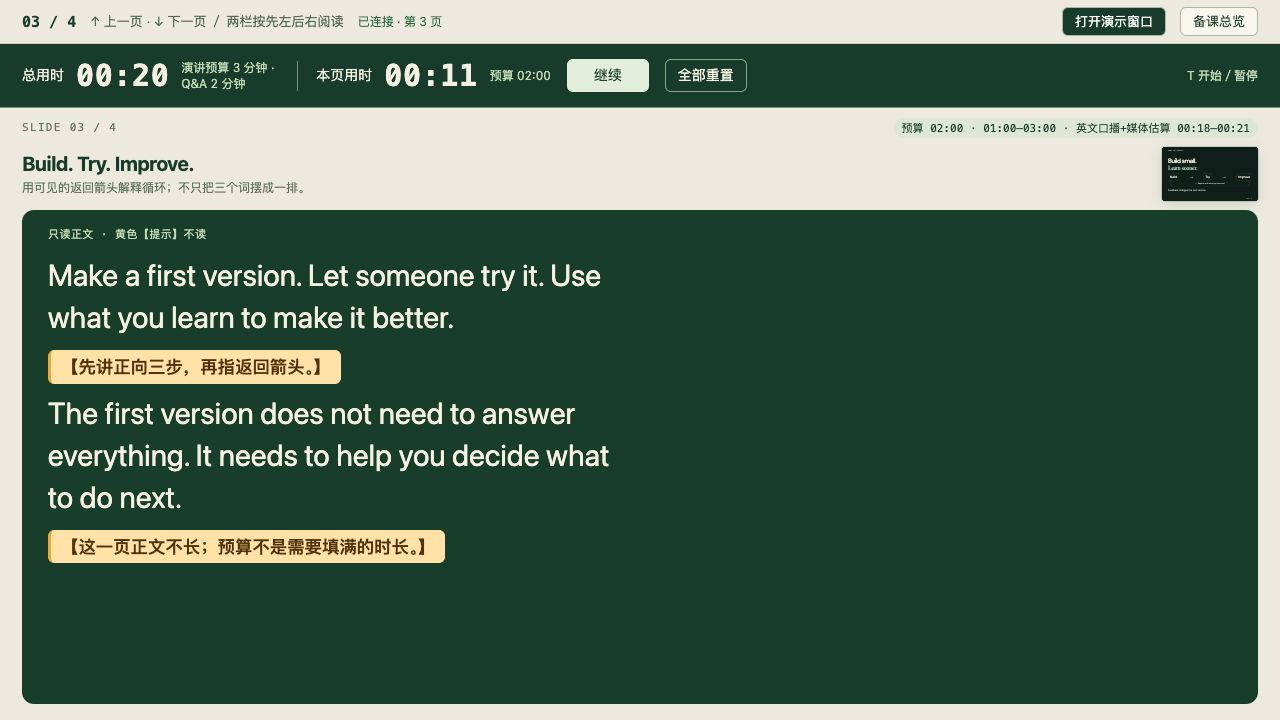
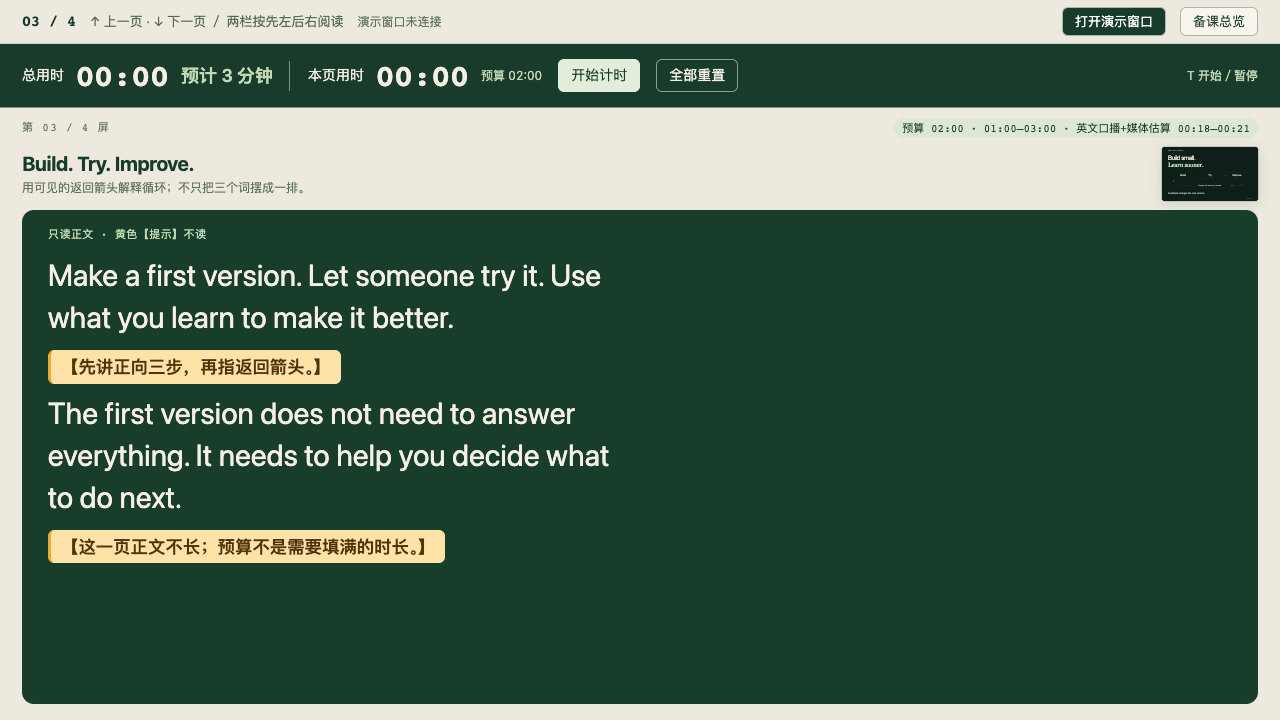
fix: keep presenter controls Chinese and budgets readable

diff --git a/.agents/skills/html-presentation/assets/template/app.js b/.agents/skills/html-presentation/assets/template/app.js
@@ -20,18 +20,18 @@ function playFilm() {
   film.play().catch(() => {
     playbackBlocked = true;
     reportState();
-    filmHint.textContent = 'Press V to play with sound';
+    filmHint.textContent = '按 V 播放（有声）';
     filmHint.hidden = false;
   });
 }
 film?.addEventListener('play', () => { filmHint.hidden = true; playbackBlocked = false; reportState(); });
 film?.addEventListener('pause', () => {
-  filmHint.textContent = film.ended ? 'Press ↓ to continue · R to replay' : 'Press V to resume';
+  filmHint.textContent = film.ended ? '按 ↓ 继续 · R 重播' : '按 V 继续播放';
   filmHint.hidden = false;
   reportState();
 });
 film?.addEventListener('ended', () => {
-  filmHint.textContent = 'Press ↓ to continue · R to replay';
+  filmHint.textContent = '按 ↓ 继续 · R 重播';
   filmHint.hidden = false;
   reportState();
 });

diff --git a/.agents/skills/html-presentation/assets/template/notes.js b/.agents/skills/html-presentation/assets/template/notes.js
@@ -109,7 +109,15 @@
 
   const status = toolbar.querySelector('.sync-status');
   const sessionKey = `presentation-session:${deckKey}`;
-  const session = sessionStorage.getItem(sessionKey) || crypto.randomUUID();
+  // getRandomValues also works on private HTTP previews; retain the UUID channel format.
+  function createSession() {
+    const bytes = crypto.getRandomValues(new Uint8Array(16));
+    bytes[6] = (bytes[6] & 0x0f) | 0x40;
+    bytes[8] = (bytes[8] & 0x3f) | 0x80;
+    return Array.from(bytes, value => value.toString(16).padStart(2, '0')).join('')
+      .replace(/^(.{8})(.{4})(.{4})(.{4})(.{12})$/, '$1-$2-$3-$4-$5');
+  }
+  const session = sessionStorage.getItem(sessionKey) || createSession();
   sessionStorage.setItem(sessionKey, session);
   const channel = new BroadcastChannel(`presentation-${deckKey}-${session}`);
   let lastSeen = 0;

diff --git a/.agents/skills/html-presentation/assets/template/speaker.css b/.agents/skills/html-presentation/assets/template/speaker.css
@@ -43,7 +43,7 @@ body.notes-deck .script-scroll .spoken p.delivery-cue{font-size:15px}
 .timer-page{border-left:1px solid #78937d;padding-left:18px}
 .timer-elapsed,.page-elapsed{font:600 30px/1 ui-monospace,monospace;font-variant-numeric:tabular-nums;letter-spacing:.02em}
 .timer-budget,.page-budget{color:#c3d9b5;font-size:12px;font-variant-numeric:tabular-nums}
-.timer-budget{max-width:100px}
+.timer-budget{font-size:18px;font-weight:600;white-space:nowrap}
 .timer-page[data-timing="over"] .page-elapsed,.timer-page[data-timing="over"] .page-budget{color:#ffb4a0}
 .speaker-timer button{font:inherit;padding:6px 12px;border:1px solid #8aa486;border-radius:6px;background:transparent;color:inherit;cursor:pointer;white-space:nowrap}
 .speaker-timer .timer-toggle{background:#e3eddc;color:#193b2b;border-color:#e3eddc;min-width:82px}

diff --git a/.agents/skills/html-presentation/scripts/build.py b/.agents/skills/html-presentation/scripts/build.py
@@ -76,10 +76,10 @@ def build(deck, output, asset_dir=None):
         links.append(f'<li><a href="#{ident}"><span>{number:02d}</span>{escape(title)}</a></li>')
         articles.append(
             f'<article class="slide-note" id="{ident}" data-budget-seconds="{budget if budget is not None else ""}">'
-            f'<div class="note-top"><p class="eyebrow">SLIDE {number:02d} / {total}</p><span class="time">{time_label}</span></div>'
+            f'<div class="note-top"><p class="eyebrow">第 {number:02d} / {total} 屏</p><span class="time">{time_label}</span></div>'
             f'<div class="note-heading"><div><h2>{escape(title)}</h2><p class="purpose">{escape(slide.get("purpose", ""))}</p></div>'
             f'<figure class="slide-thumbnail"><div class="thumbnail-window"><iframe srcdoc="{escape(preview)}" title="第 {number} 屏缩略图" loading="lazy" tabindex="-1" aria-hidden="true"></iframe></div><figcaption>第 {number} 屏</figcaption></figure></div>'
-            f'<div class="spoken" lang="{escape(deck.get("language", "en"))}"><span class="label">只读正文 · 黄色【提示】不读</span>{spoken}</div></article>')
+            f'<div class="spoken" lang="{escape(deck.get("language", "en"))}"><span class="label" lang="zh-CN">只读正文 · 黄色【提示】不读</span>{spoken}</div></article>')
     common = f'data-deck-id="{escape(deck["id"])}" data-speaker="{escape(deck["speaker"])}"'
     title = escape(deck['title'])
     index = f'<!doctype html><html lang="{escape(deck.get("language", "en"))}"><head><meta charset="utf-8"><meta name="viewport" content="width=device-width,initial-scale=1"><title>{title}</title><link rel="stylesheet" href="style.css"><link rel="stylesheet" href="theme.css"><script src="app.js" defer></script></head><body {common}><main id="presentation">' + '\n'.join(scenes) + '</main><div class="reading-progress"><span id="progressFill"></span></div></body></html>'
@@ -88,7 +88,7 @@ def build(deck, output, asset_dir=None):
              '回到讲稿，↑ ↓ 或 Page Up / Page Down 翻页，Home / End 到首尾。T 同时开始或暂停两个计时器；换页只重置本页用时。'
              + media_guide + '深底大字区域是口播，黄色提示不读。两栏先读左栏再读右栏。'
              '时间预算不是必须讲满的时间；估算按英文 100–120 词/分钟加媒体时长，不包含临场展开和停顿，以彩排实测为准。')
-    notes = (f'<!doctype html><html lang="zh-CN"><head><meta charset="utf-8"><meta name="viewport" content="width=device-width,initial-scale=1"><title>{title} · 讲稿</title><link rel="stylesheet" href="speaker.css"><link rel="stylesheet" href="theme.css"><script src="notes.js" defer></script></head><body {common} data-budget-label="{escape(deck.get("budget_label", "预算与估算见每页；以彩排为准"))}"><main><header id="top"><p class="eyebrow">SPEAKER GUIDE</p><h1>{title}</h1><div class="notice">{guide}</div><a href="index.html" target="_blank" rel="noopener">独立打开演示（不联动）</a></header><section class="quick"><h2>逐屏速查</h2><ol>'
+    notes = (f'<!doctype html><html lang="zh-CN"><head><meta charset="utf-8"><meta name="viewport" content="width=device-width,initial-scale=1"><title>{title} · 讲稿</title><link rel="stylesheet" href="speaker.css"><link rel="stylesheet" href="theme.css"><script src="notes.js" defer></script></head><body {common} data-budget-label="{escape(deck.get("budget_label", "未设总预算"))}"><main><header id="top"><p class="eyebrow">演讲者讲稿</p><h1>{title}</h1><div class="notice">{guide}</div><a href="index.html" target="_blank" rel="noopener">独立打开演示（不联动）</a></header><section class="quick"><h2>逐屏速查</h2><ol>'
              + ''.join(links) + '</ol></section>' + '\n'.join(articles) + '</main></body></html>')
     output.mkdir(parents=True, exist_ok=True)
     for name in ['style.css', 'speaker.css', 'app.js', 'notes.js']:

diff --git a/.agents/skills/html-presentation/scripts/test_build.py b/.agents/skills/html-presentation/scripts/test_build.py
@@ -25,7 +25,7 @@ class PresentationBuildTests(unittest.TestCase):
         self.deck['slides'] = [self.deck['slides'][2], self.deck['slides'][0]]
         build(self.deck, self.output)
         self.assertEqual(validate_site(self.output), 2)
-        self.assertIn('SLIDE 01 / 2', (self.output / 'notes.html').read_text())
+        self.assertIn('第 01 / 2 屏', (self.output / 'notes.html').read_text())
 
     def test_short_budget_is_not_the_speech_estimate(self):
         self.deck['slides'][1]['budget_seconds'] = 30

diff --git a/.agents/skills/html-presentation/references/verification.md b/.agents/skills/html-presentation/references/verification.md
@@ -19,7 +19,7 @@ node <skill-dir>/scripts/test_browser.cjs http://127.0.0.1:8765 /tmp/presentatio
 
 若使用已安装的 Chrome，可在命令前设置 `PLAYWRIGHT_CHANNEL=chrome`；Playwright 模块须在 Node 的解析路径中。
 
-它针对模板示例验证双窗、彩排记录、导出、暂停/回访/刷新/重置、窄屏，并保存每页截图。动态 loop 额外验证轨迹确实移动、节点错峰强调、离页暂停、缩略图静止、深浅主题和 reduced-motion。执行前先构建 `assets/template/deck.json`。自定义 deck 的内容、视频、可访问性仍按实际材料检查；不要为通过示例测试改动用户内容。
+它针对模板示例验证简短中文计时文案的字号和不重叠、双窗、彩排记录、导出、暂停/回访/刷新/重置、窄屏，并保存每页截图。动态 loop 额外验证轨迹确实移动、节点错峰强调、离页暂停、缩略图静止、深浅主题和 reduced-motion。执行前先构建 `assets/template/deck.json`。私有 HTTP/Tailscale 交付要用实际非 localhost 地址再跑一次，以覆盖浏览器安全上下文差异；同一台机器内的两个窗口才会联动。自定义 deck 的内容、视频、可访问性仍按实际材料检查；不要为通过示例测试改动用户内容。
 
 配色改动另测深浅页、讲稿、黄色 cue 和缩略图。生成器先验证文字角色对比度；浏览器检查实际应用和布局。可用 `scripts/test_palettes.cjs ROOT_URL EVIDENCE_DIR`：先将同一 bundled deck 的 `palette` 分别设为 forest、blue、plum，生成到同一 HTTP 根目录下的同名子目录。该测试检查三套配色、相同 loop 尺寸、深浅色轨迹、讲稿和静态缩略图，并保存截图；不代替实体投影验证。
 

diff --git a/.agents/skills/html-presentation/references/template-contract.md b/.agents/skills/html-presentation/references/template-contract.md
@@ -6,6 +6,8 @@
 
 顶层字段：`id`（短英文 slug，稳定且区别不同演讲）、`title`、`speaker`、`language`、`budget_label`、`slides`。可选 `palette`（forest / blue / plum）和 `colors`（语义角色覆盖），见 [配色指南](color.md)。
 
+`language` 指投影及口播语言（本模板为 en），不决定控制界面语言。`budget_label` 使用简短中文，如「预计 5 分钟」；省略时显示「未设总预算」。计时栏默认 18px、单行，窄屏隐藏该辅助文案以保留计时读数。问答时长、无互动等安排放到中文 cue 或备课说明，不放进时钟旁边。
+
 每页字段：
 
 - `id`：稳定英文 slug，唯一；不要使用保留的 `top`。翻页、hash、同步、讲稿、缩略图都由它连接。
@@ -55,7 +57,7 @@
 ```html
 <h2>A short demo.</h2>
 <video id="demo-film" src="assets/demo.mp4" poster="assets/poster.jpg" playsinline preload="metadata"></video>
-<p id="film-hint" hidden>Press V to play with sound</p>
+<p id="film-hint" hidden>按 V 播放（有声）</p>
 ```
 
 素材放在 deck.json 旁的 assets/；build 会复制。修改主文件中的视频名即可，不改运行时的固定 ID。给 `media_seconds` 填实际时长。有声自动播放须先在投影窗完成准备手势；浏览器仍可拒绝，使用 V 手动播放。视频和字幕必须与当前讲稿对应。

diff --git a/.agents/skills/html-presentation/references/presenter.md b/.agents/skills/html-presentation/references/presenter.md
@@ -19,7 +19,7 @@
 
 ## 同步合同
 
-- notes 建立 `crypto.randomUUID()` 的 session，保存到同一标签的 sessionStorage。两页用 `data-deck-id` + 所在路径隔离不同演讲，再加 session 隔离不同演讲者窗口。
+- notes 用 `crypto.getRandomValues()` 建立 UUID 格式的 session（支持私有 HTTP 预览，不依赖仅限安全上下文的 randomUUID），保存到同一标签的 sessionStorage。两页用 `data-deck-id` + 所在路径隔离不同演讲，再加 session 隔离不同演讲者窗口。
 - 讲稿通过 `window.open(index.html?presenter=<session>#<id>)` 打开投影。两边使用同名 `BroadcastChannel`。要求相同 origin、浏览器配置文件、设备；它不是跨设备同步服务。
 - `slide {id}` 是指令；稳定语义 ID 是身份，页码只是显示。投影收到后调用与本地键盘相同的 `go()`，保留动画和 reduced-motion。
 - `ready` / `hello` 建立连接；`ping` / `state` 每 2 秒更新存活状态和视频状态。投影刷新后发 ready，notes 重发当前页；6.5 秒未响应标为断开。重新打开按钮复用命名窗口。

diff --git a/.agents/skills/html-presentation/references/authoring.md b/.agents/skills/html-presentation/references/authoring.md
@@ -22,7 +22,7 @@
 | 来源/范围 | 必要时简短脚注 | 非口播提醒单独放，不能让人误读 |
 | 时间 | 不显示工具栏 | 总用时、本页用时、预算与估算分开 |
 
-默认英文演讲正文、中文舞台提示，实际语言遵循用户。`say` 必须是要讲的话；`cue` 只放停顿、指向、翻页、播放和可选分支提示。不要把 “This is only an example…” 之类内部免责声明塞进正文，除非听众真的需要听到它。
+默认英文投影正文和口播；控制界面、计时文案、操作状态及舞台提示用中文，除非用户明确要求改变。英文短句是要读的正文，中文提示不读；不能因为主题或学校配色变化就改变语言分工。`say` 必须是要讲的话；`cue` 只放停顿、指向、翻页、播放和可选分支提示。不要把 “This is only an example…” 之类内部免责声明塞进正文，除非听众真的需要听到它。
 
 ## 视觉基准与改动边界
 
